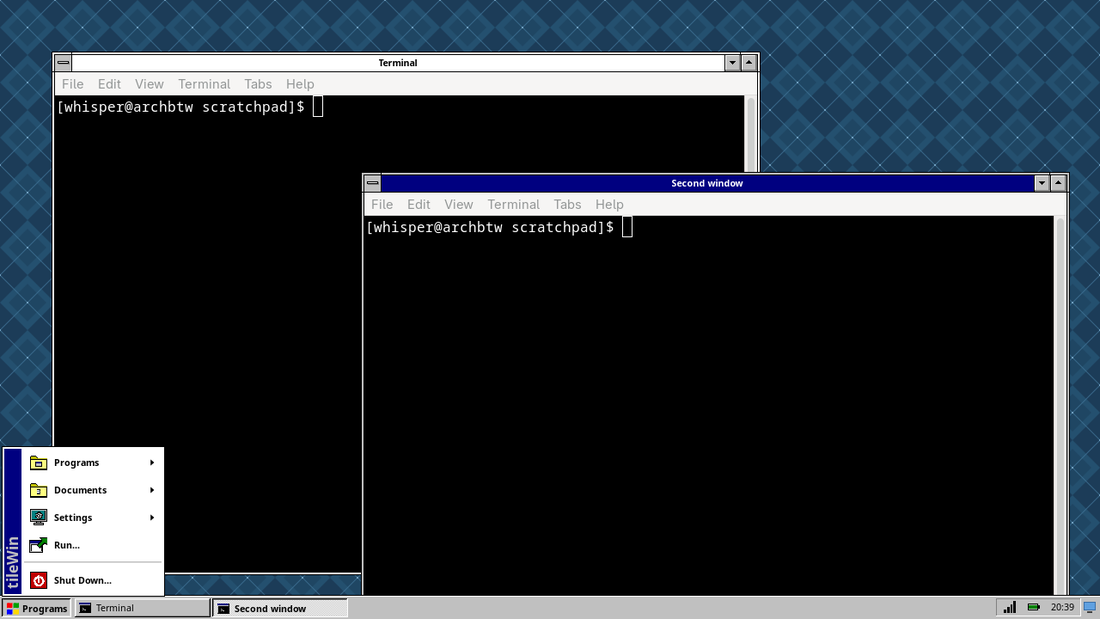
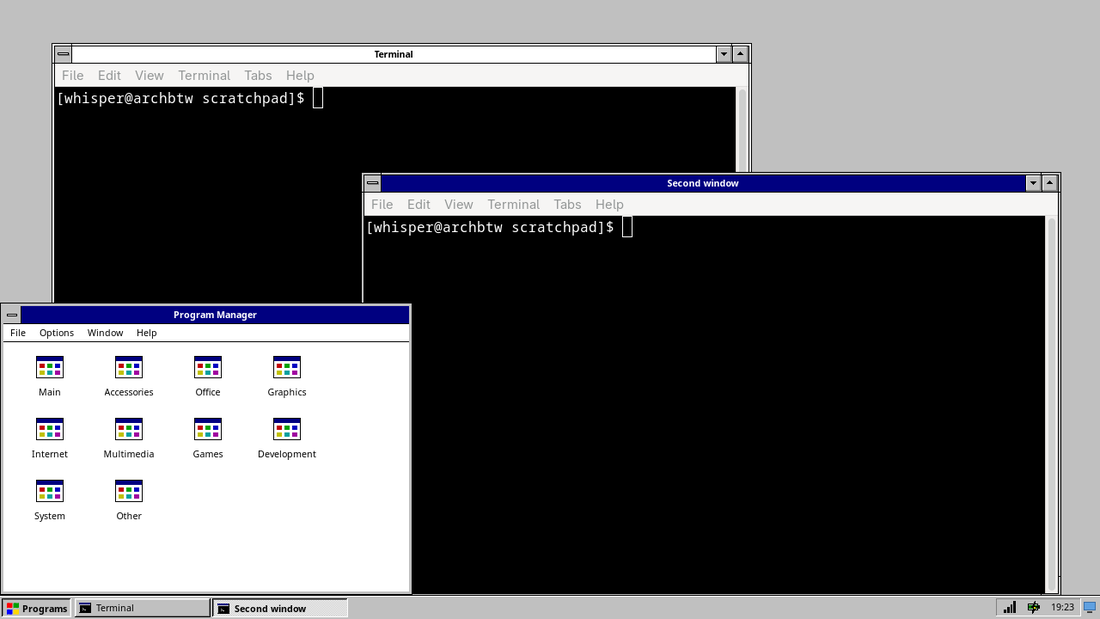
README: Windows 1, the Windows 3 desktop, media buttons and backups
Describes the Windows 1 theme with a screenshot, the grey desktop of
Windows 3 (with a new screenshot), the media buttons under the window
previews and the Backup page of the settings.

diff --git a/README.md b/README.md
@@ -34,6 +34,8 @@ Every theme brings its own title bars, taskbar, start menu and wallpaper:
 | ![Windows 7](docs/screenshots/theme-win7.png) | ![Windows 11](docs/screenshots/theme-win11.png) |
 | **Windows XP (dark)** | **Windows 3** |
 | ![Windows XP (dark)](docs/screenshots/theme-winxp-dark.png) | ![Windows 3](docs/screenshots/theme-win3.png) |
+| **Windows 1** | |
+| ![Windows 1](docs/screenshots/theme-win1.png) | |
 
 Windows 8 replaces the start menu with a full-screen start screen of colored tiles:
 
@@ -116,6 +118,7 @@ Windows can be closed with an explosion (`animation close explode`), one of the 
   - **Minimized apps stop** (`pause_minimized 5m`, off by default): an app all of whose windows are minimized is stopped (SIGSTOP, together with the programs it started) after that long, so it takes no processor time or battery, and goes on the moment one of its windows is shown, focused or closed. Terminals and apps running a shell, apps with a window of another process of theirs shown, apps keeping the screen on, apps playing sound (`pause_minimized_sound keep`) and apps in `pause_minimized_except` keep running. If tileWin itself ends without letting them go on, the next tileWin does.
   - **Apps open where they were closed** (`remember_windows`, on by default): the first window of an app opens at the place and in the size its window had when it was closed last (on the screen it is started on), maximized or snapped if it was. Dialogs, windows of a fixed size and apps in `remember_windows_except` open as new windows do.
   - **Window rules:** for one app, keep it on top, open it maximized, minimized, full screen or on a given desktop, let it float in tile mode or make it see-through; the settings write them as `for_window` lines.
+- **Media buttons** under the preview of a player's window above the taskbar, as on Windows: previous, play/pause and next for any player on MPRIS (Firefox, Chromium, Spotify, mpv, VLC, ...). Play/pause shows what the player is doing, and a button it cannot use now is greyed out.
 - **Peek** like Aero Peek: resting the pointer on a window's preview above the taskbar shows only that window, the others as outlines of glass (a minimized one shows where it would open); resting on "Show desktop" shows the desktop. `peek no` on the `taskbar` or `showdesktop` widget turns it off.
 - **Magnifier:** hold Alt and turn the scroll wheel to zoom the screen in and out around the pointer, up to 32 times. The pointer stays in the middle of what is shown, so moving the mouse moves the enlarged picture, and it moves more finely the more it is zoomed; past the screen's edge it is dark. `magnifier Super` takes another key, `magnifier off` turns it off, `magnify in|out|off|<factor>` does it from a binding.
 - **Session restore:** the apps open at shutdown or logout start again at the next login, on the same workspace and position. Terminals (xfce4-terminal, GNOME Terminal, Konsole, kitty, Alacritty, foot, …) reopen in the directory their shell was in, and file managers (Thunar, Dolphin, Nautilus, Nemo, Caja, PCManFM) reopen the folder that was shown; tileWin switches Thunar, Dolphin and Nemo to show the full path in the window title for this. Apps that save their own state (browsers, editors) bring back their content. Turn it off with `session_restore no`.
@@ -495,6 +498,7 @@ Use these in configs, key bindings, menus, or with `tilewinmsg <command>`. Windo
 | Keyboard | Keyboard layouts and variants, layout switch shortcut, Caps Lock and Compose key, Num Lock, key repeat, and the shortcuts of window mode and tile mode (with a key recorder) |
 | Mouse & touchpad | Pointer speed and acceleration, scrolling speed and direction, left-handed buttons, tap to click, tap and drag, disable while typing, touchpad scroll and click methods, cursor theme and size, showing the pointer when Ctrl is tapped, growing it when the mouse is shaken, pointer trail lifetime, double-click speed with a folder to try it on |
 | Apps | Default apps (web browser, email, file manager, terminal, task manager, text editor, pictures, music, videos, PDF) and startup apps: turn them on or off, add or remove them. Each one can be picked from the installed apps or, with **Other...**, given any program at all: a command to type or an executable to pick off the disk, for the things that have no entry of their own. The menus, shortcuts and flyouts all use these, so a program is named in one place only. A task manager that is not installed opens whichever one the machine does have, or the terminal running btop, htop or top, instead of nothing at all |
+| Backup | All settings saved to one `.tar.gz` file and restored from one (after asking); a restore keeps the settings it replaces, listed there to go back to. `tilewin-settings --backup FILE` / `--restore FILE` do the same without the window |
 | Account | Your account picture (`~/.face`, shown on the lock screen and login screens) and name |
 | About | What this computer is running, the way a fetch tool prints it but laid out as a page: the operating system, model, kernel, uptime, packages, shell and locale; the tileWin version, mode, theme, screens and terminal; the processor, graphics, memory, swap, disk and battery. The logo beside it can be the normal one, a tiny one or an uwu one, and one button copies the whole page as text |
 
@@ -626,7 +630,8 @@ Window mode and tile mode each remember their own theme: switching the mode (Sup
 | Theme | Look |
 |---|---|
 | `win95` | Classic gray bevels, navy title gradient, teal desktop, cascading start menu |
-| `win3` | Windows 3.x: navy title bars with the title in the middle, the control-menu box (a click opens the window menu, a double click closes the window) and arrow buttons, thick grey borders notched at the corners, flat white menus, a tiled argyle wallpaper, the **Program Manager** as the Start menu (program groups made from the apps' categories, the pinned apps as Main; a group opens as a window of icons) and minimized windows as **icons along the bottom of the desktop** (a double click restores one) |
+| `win1` | Windows 1.0 as it looked on EGA: bright blue title bars with the title white on black in the middle, the system box with its three bars on the left (a click opens the window menu, a double click closes the window) and the zoom box on the right, thin black borders, inactive title bars dithered with white, yellow menus, and the cyan of the icon area as the desktop and the taskbar, where minimized windows lie as icons; its windows did not overlap, so it suits tile mode |
+| `win3` | Windows 3.x: navy title bars with the title in the middle, the control-menu box (a click opens the window menu, a double click closes the window) and arrow buttons, thick grey borders notched at the corners, flat white menus, the plain light grey desktop Windows 3.1 came with, the **Program Manager** as the Start menu (program groups made from the apps' categories, the pinned apps as Main; a group opens as a window of icons) and minimized windows as **icons along the bottom of the desktop** (a double click restores one) |
 | `winxp` | Luna blue title bars, green start button, two-column start menu |
 | `winxp-dark` | Windows XP in black: the same glossy Luna title bars, taskbar, Start menu and dialogs in black and greys, under a night sky; apps go dark while it is on |
 | `win7` | Aero glass title bars, orb start button, icons-only superbar |
